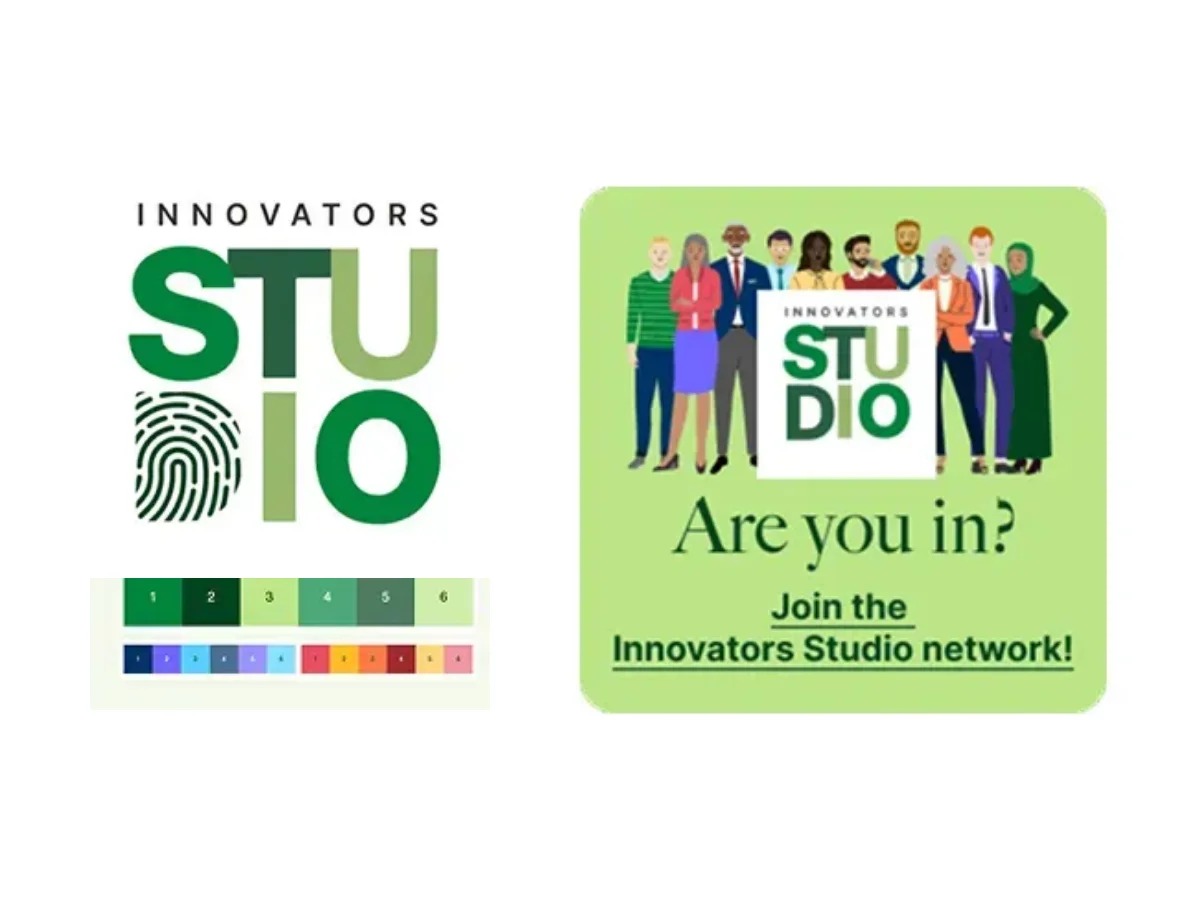
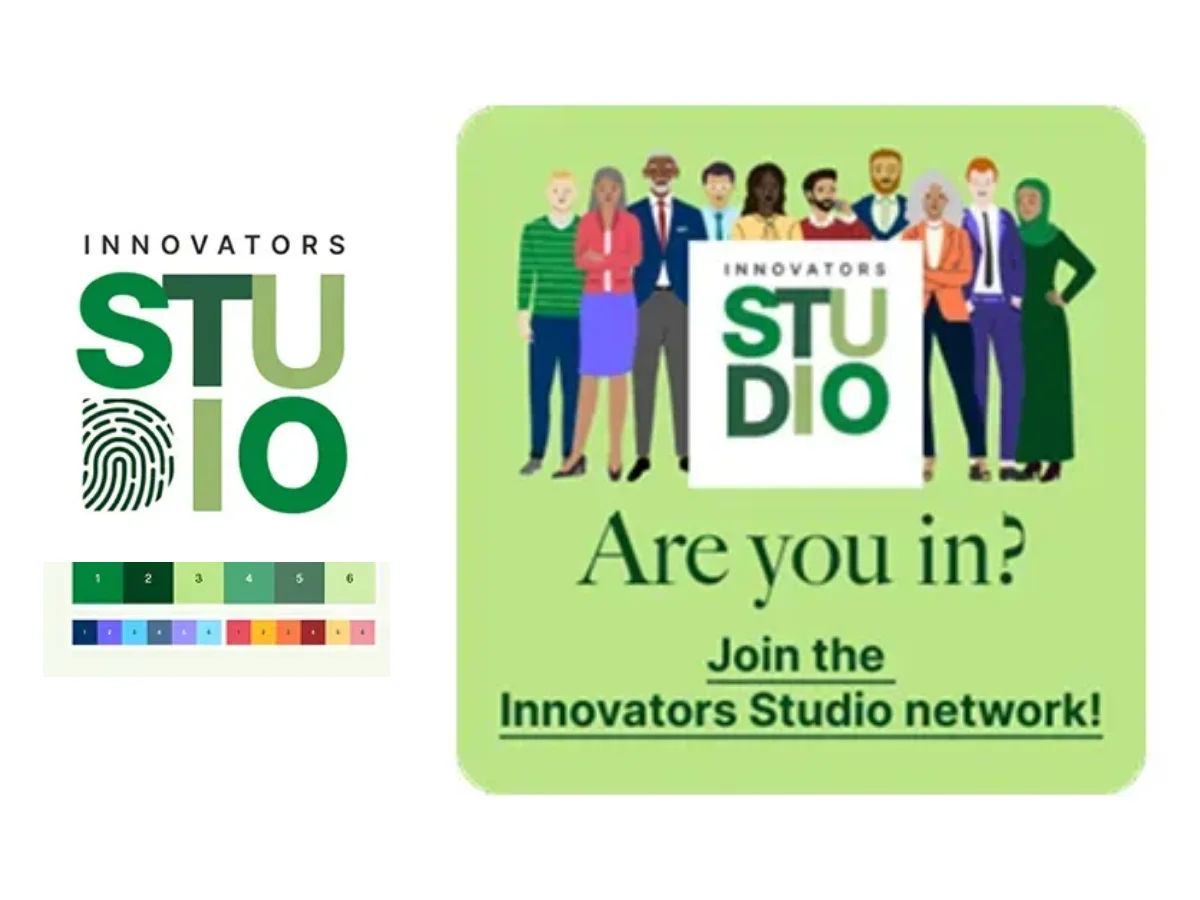
Innovators Studio joins the shared device height
All four shelf cards now put their dominant element on the same 694px
band: laptop 1156x694, tablet 914x694, phones 1037x694, and now the
Innovators invitation card at 733x694.

There is no device on this one, so the invitation card takes the band and
the identity lockup sits beside it. The card is very nearly square, so at
694 tall it claims 733 of the 1200, which leaves 373 for the logo column
on a 30px margin and a 34px gap. Two other arrangements were tried and
dropped: spanning the logo column across the band as well strands the
palette at the bottom, away from the mark it belongs to, and scaling the
old lockup to the width it could take only reached 579, still short of
the band.

The other three regenerate byte-identical, so this commit is the one
image plus its cache token.

diff --git a/index.html b/index.html
@@ -530,7 +530,7 @@
 
           <a class="shelf-item reveal" href="case-study/innovators-studio-visual-identity.html" aria-label="See the Innovators Studio identity case study">
             <div class="shelf-thumb">
-              <img decoding="async" loading="lazy" src="img/shelf/innovators.webp?v=3" width="1200" height="900"
+              <img decoding="async" loading="lazy" src="img/shelf/innovators.webp?v=4" width="1200" height="900"
                    alt="The Innovators Studio identity system: the STUDIO logo lockup with its fingerprint mark, the brand palette, and a network invitation card with illustrated people." />
             </div>
             <h3>Innovators Studio identity</h3>
